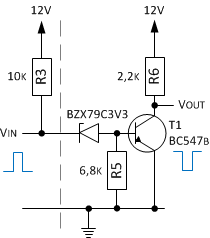
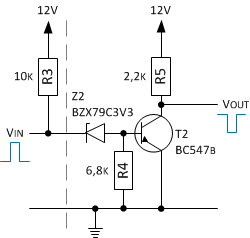
Update Indicator

diff --git a/pages/kontrollanzeige_2.md b/pages/kontrollanzeige_2.md
@@ -4,9 +4,9 @@ title: Öldruckkontrollanzeige
 description: Universal LCD Motorrad Tachometer
 ---
 
-## Öldruckkontrollanzeige
 Die Kontrollanzeige _La1_ soll bei Verlust des Öldrucks ebenfalls zur Anzeige genutzt werden. Damit zwischen den beiden unterschiedlichen Ereignissen - _Störung Generator_ und _Öldruckverlust_ - unterschieden werden kann, soll bei Öldruckverlust die Kontrollanzeige mit ca. 1Hz blinken.
 
+## Astabile Kippstufe
 Die Schaltung besteht im wesentlichen aus einem astabilen Multivibrator bestehend aus T1 und T2, dessen Frequenz mit dem Widerstand R2 und R3 und den Kondensatoren C1 und C2 eingestellt wird. Da die zeitbestimmenden Werte Rt=R2=R3 und Ct=C1=C2 symetrisch sind, ist das Impuls-/Pausezeit gleich. Die Berechnung der Periodendauer und Frequenz erfolgt mittels folgender Formeln:
 
     T = ti + tp
@@ -20,17 +20,37 @@ Die Schaltung besteht im wesentlichen aus einem astabilen Multivibrator bestehen
       = 1 / 1016ms
       = 1Hz
     
-![Astabile Kippstufe](../images/Astabile_Kippstufe.png)
+![Astabile Kippstufe Abb. 1](../images/Astabile_Kippstufe_1.png)
 
-Der Öldrucksensor schaltet gegen Masse bei Öldruckverlust. Die Anschaltung und Aktivierung des Multivibrators erfolgt mittels geeigneter Transisor-Logik. Die Transistoren T2 und T3 bilden zusammen mit dem gemeinsamen kollektorwiderstand eine NOR-Funktion und die Transistorstufe T4 dient als invertierende Schaltstufe, um die gewünschte Oder-Funktion zu erhalten. 
+Die Dioden D1 und D2 dienen zum Schutz der Basis vom Transitor T1 und T2, da durch Umladung der Kondensatoren C1, C2 negative Spannungen in Höhe der Betriebsspannung auftreten können. 
 
-![Oder-Schaltung](../images/Oder_Schaltung.png)
+Je größer die Werte von R1 und R4 sind, umso _verschliffener_ ist die positive Flanke des Impulses am Kollektor des betreffenden Transistors. Brauchbare Werte für R1 und R4 liegen etwa im Bereich von 470Ohm bis 10k. Auf der anderen Seite darf der Basiswiderstand R2, R3 nicht beliebig groß gewählt werden. Damit noch ein ausreichend größer Kollektorstrom Ic fließt, sollte bei minimaler Gleichstromverstärkung B ein Überbuchungsfaktor ü nicht kleiner 2 gewählt werden. Unter Verwendung von einem Überbuchungsfaktor ü = 3 und einem Kollektorwiderstand R1, R4 von 10k darf der maximale Widerstandswert für R3, R4 nicht größer 660k sein:
+
+    Rb < B/ü * Rc
+    Rt < 200/3 * R1,2
+       < 66 * 10k
+       < 660k
+
+## Erweiterung Astabile Kippstufe
+Die Flankensteilheit der positiven Flanke kann verbessert werden, indem man den Transistor mit einer Diode vom Kondensator entkoppelt. Die Flankensteilheit am Ausgang kann durch diese Maßnahme um den Faktor 10 verbessert werden. Damit der Kollektorstrom Ic (und der mindest Basisstrom Ib) bei Durchschalten von T2 ungefähr gleich bleibt, muss der Widerstandswert für R4 angepasst werden:
+
+    R4||R4a = 10k
+    R4 = R4a = 20k
+
+Der Öldrucksensor schaltet gegen Masse bei Öldruckverlust. Die Anschaltung und Aktivierung des Multivibrators erfolgt mittels geeigneter Transisor-Logik. Der PNP-Transistoren T3 dient zusammen mit Widerstand R5 als invertierende Schaltstufe, um den Transistor T2 _freizugeben_. D4 dient zum Schutz vor Überspannung und D5 schützt den Transsitor T3 vor negativen Spannungen. Da die Basis vom Transistor T3 im Ruhezustand unbeschaltet ist, kommt R6 zum Einsatz.
+
+![Astabile Kippstufe Abb. 2](../images/Astabile_Kippstufe_2.png)
+
+## Gesamtschaltung Öldruckkontrollanzeige
+Die gesamte Schaltung erhält noch die bereits verwendete Schaltstufe zur Anschaltung der Kontrollampe La1 (siehe [hier](kontrollanzeige_1.html)). Der Abgriff erfolgt (auch hier) nicht direkt am Ausgang sondern über eine (eigene) Entkopplungsdiode.
+
+![Gesamtschaltung Öldruckkontrollanzeige](../images/Oeldruckkontrollanzeige.png)
 
 ## Quellen und weiterführende Literatur
 
 ### Links
 - Wikipedia; [Multivibrator](https://de.wikipedia.org/wiki/Multivibrator#Astabile_Kippstufe_mit_Transistoren)
-- Play-Hookey; [4-Input RTL OR Gate](http://www.play-hookey.com/digital_experiments/rtl/rtl_or4.html)
+- Texas Instruments; Design and Application of Transistor Switching Circuits; [14 Pulse-generating and Pulse-shaping Networks](http://archive.org/details/DesignAndApplicationOfTransistorSwitchingCircuits/page/n285)
 
 ### Nächste Seite
 Weiter geht's mit [Lade- und Öldruckkontrollanzeige mit CMOS](kontrollanzeige_3.html).

diff --git a/pages/kontrollanzeige_1.md b/pages/kontrollanzeige_1.md
@@ -29,7 +29,7 @@ Für einen Kollektorstrom von ca. 1mA wird nur ein schwacher Eingangsbasisstrom 
         = (1 + 22k/8,2k) * 3,4V
         = 12,5V
 
-![Messen der Spannung an Kl.61 Abb. 1](../images/Messung_Spannung_Kl.61_1.png)
+![Messen der Spannung an Kl.61](../images/Messung_Spannung_Kl.61.png)
 
 Zum Schutz vor positiven und negativen Spannungsspitzen werden zusätzlich Dioden vom Typ 1N4148 am Punkt Uref eingesetzt.
 
